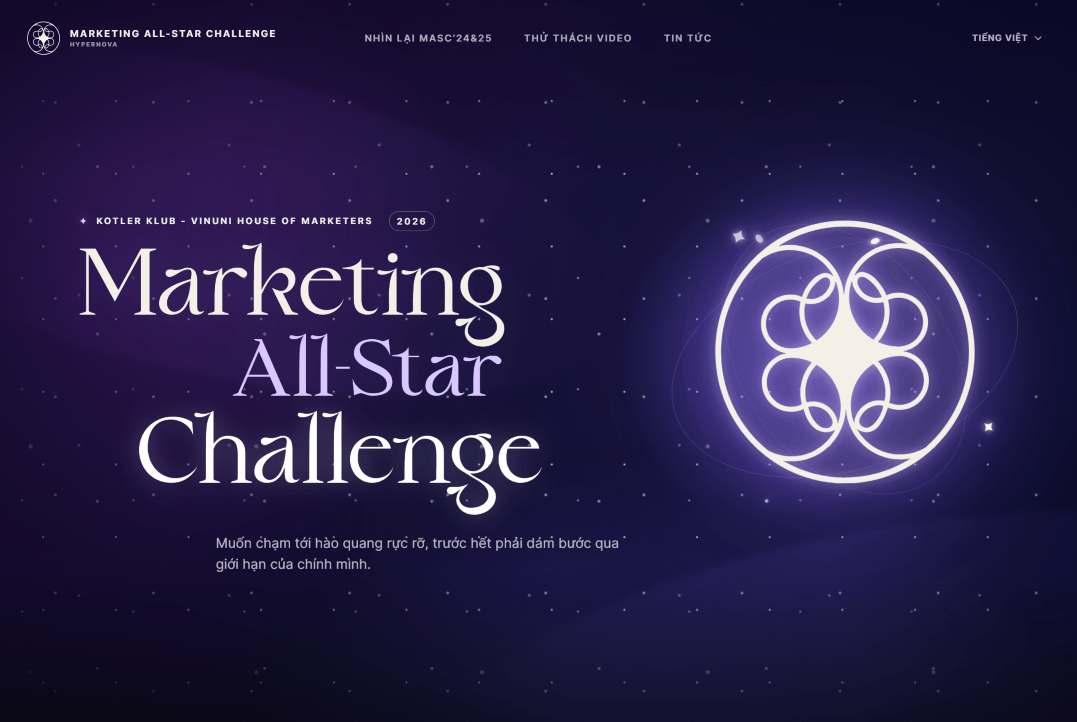
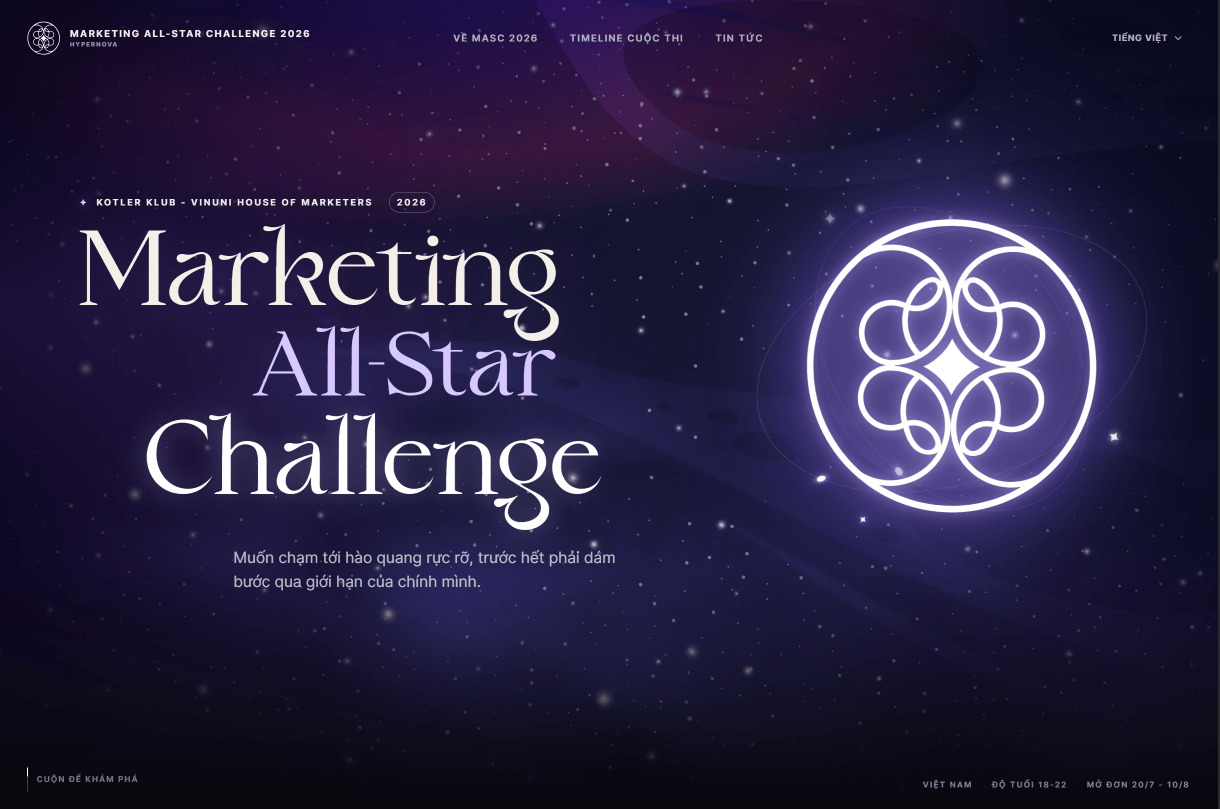
chore: update images

diff --git a/apps/web/src/app/page.tsx b/apps/web/src/app/page.tsx
@@ -11,7 +11,6 @@ import image1 from "@/assets/image-1.png";
 import image2 from "@/assets/image-2.png";
 import image3 from "@/assets/image-3.png";
 import image4 from "@/assets/image-4.png";
-import image5 from "@/assets/image-5.png";
 import footerLogo from "@/assets/footer-logo.png";
 import mentor1 from "@/assets/mentor-1.png";
 import mentor2 from "@/assets/mentor-2.png";
@@ -463,7 +462,7 @@ export default function Home() {
 
         <section className="criteria" aria-labelledby="criteria-title">
           <div className="criteria-media parallax-media" aria-hidden="true">
-            <Image src={image5} alt="" fill sizes="100vw" placeholder="blur" />
+            <Image src={image3} alt="" fill sizes="100vw" placeholder="blur" />
           </div>
           <div className="criteria-shade" aria-hidden="true" />
           <div className="page-shell criteria-layout">
